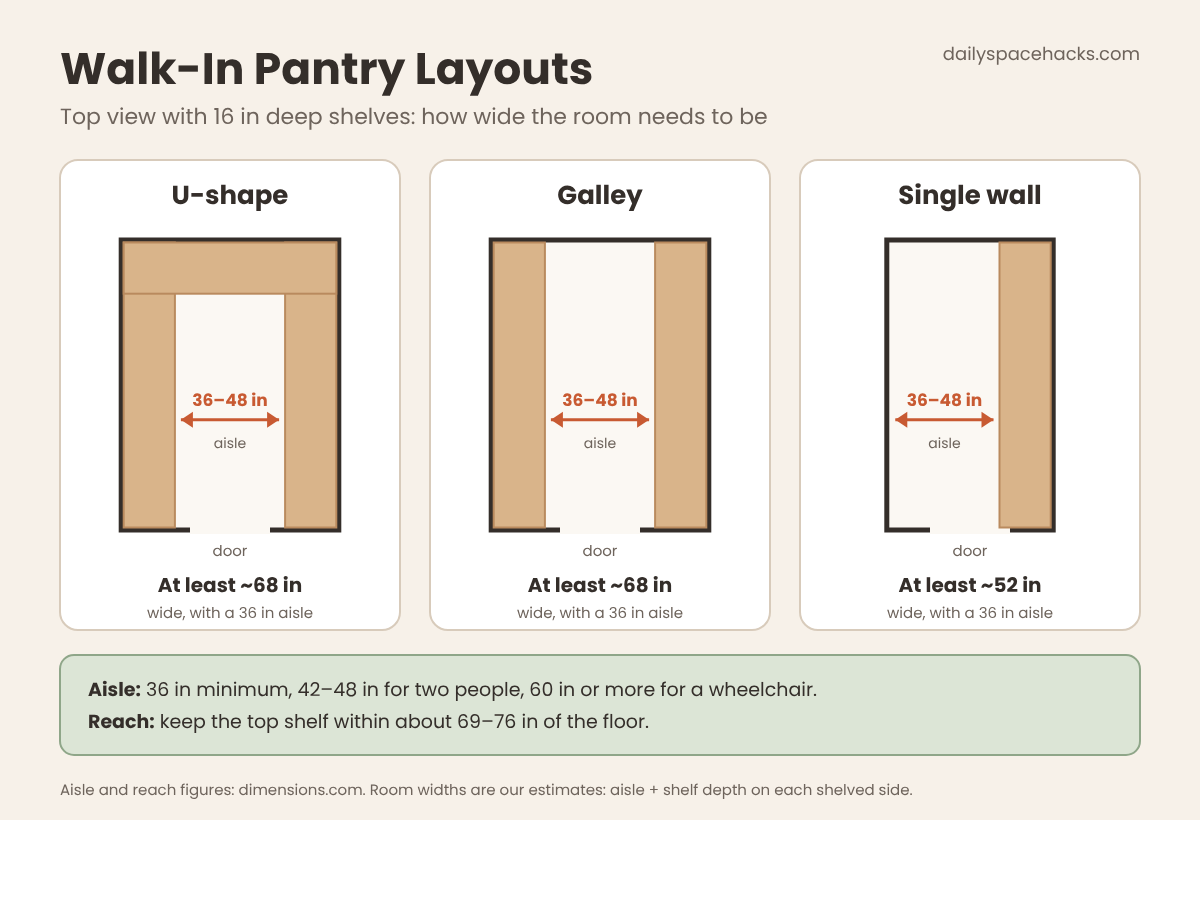
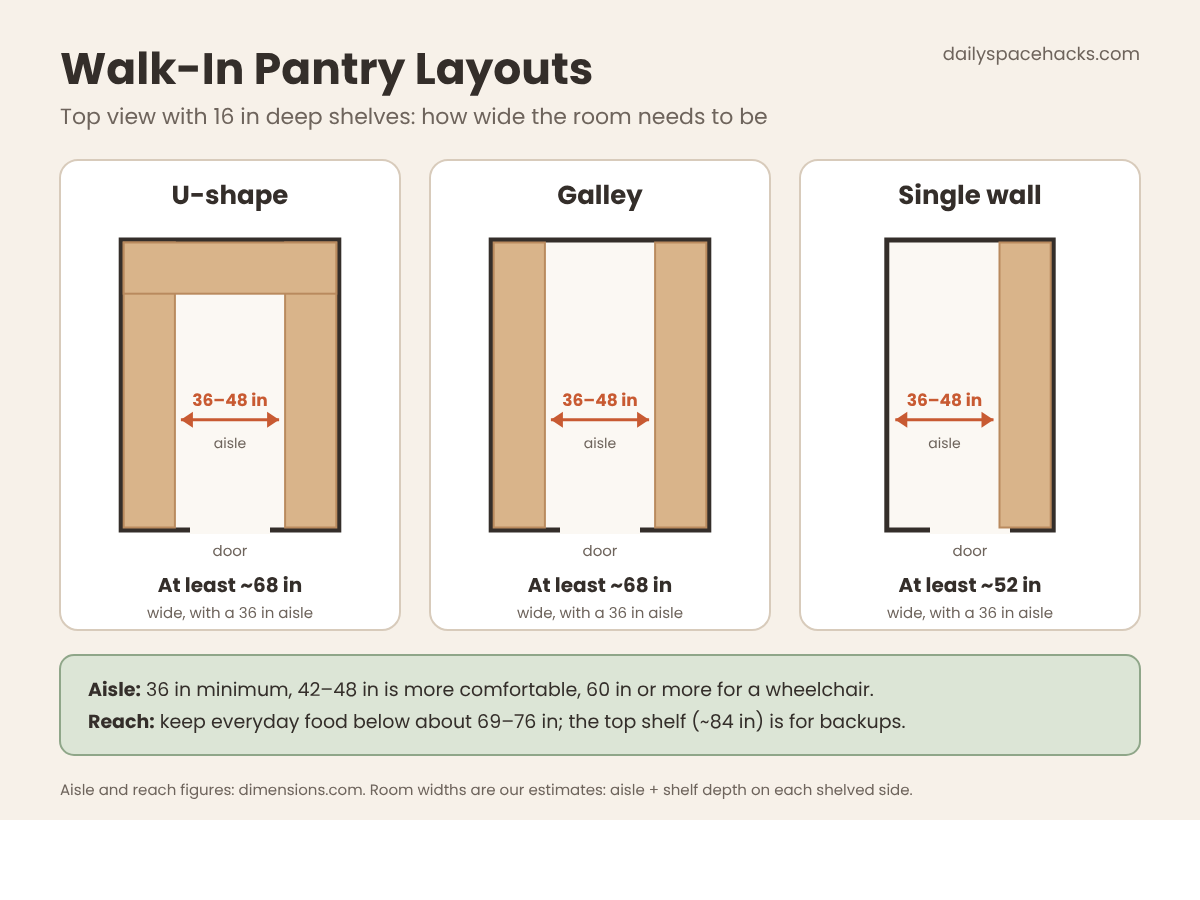
Update images ready
Claude-Session: https://claude.ai/code/session_01NA5LVV4VZ27gRjP7KysXbg

Changed region(s): [[0.185, 0.7467, 0.74, 0.8089]]

diff --git a/tools/upd/ops1286.py b/tools/upd/ops1286.py
@@ -7,10 +7,10 @@ def sizes():
     h3('Washer and Dryer Sizes at a Glance')
     table(['Machine','Width','Height','Depth'],[
      ['Front-load washer or dryer','about 27 in','about 39 in','32 to 34 in'],
-     ['Top-load washer','27 to 28 in','42 to 44 in, plus about 2 ft for the lid','27 to 28 in'],
+     ['Top-load washer','about 27 in','42 to 44 in, plus about 2 ft for the lid','27 to 28 in'],
      ['Stacked front-load pair','about 27 in','about 78 in','32 to 34 in'],
      ['Compact machines','about 24 in','33 to 36 in','24 to 26 in']])
-    p('Add the gaps on top of these sizes: about 1 in at each side and 6 in behind. A side-by-side pair of full-size machines therefore needs a space of roughly 56 in wide before any cabinets. Sizes vary by model, so check the install guide of the machines you own.')
+    p('Add the gaps on top of these sizes: about 1 in at each side and 6 in behind. A side-by-side pair of full-size machines needs a space at least 56 in wide, Whirlpool says, before any cabinets. Sizes vary by model, so check the install guide of the machines you own.')
 after(P,'6 in behind the machines for hoses and venting.</p>\n<!-- /wp:paragraph -->',sizes)
 def high():
     h3('How High to Hang Laundry Room Wall Cabinets')
@@ -18,18 +18,18 @@ def high():
     lst(['<strong>Over front-loaders with a counter:</strong> the machines are about 39 in tall, the gap about 1 in and the counter 1 to 1.5 in thick, so the counter top sits near 41 in. Add the usual 15 to 18 in kitchen gap, and the cabinets start about 56 to 60 in from the floor.',
      '<strong>Over a top-loader:</strong> the washer is 42 to 44 in tall and the lid needs about 24 in, so the bottom of the cabinet should be at least 66 to 68 in from the floor. Open the lid fully and measure, because lids differ.',
      '<strong>Over a stacked pair:</strong> about 78 in of machines leaves roughly 18 in below an 8 ft (96 in) ceiling. After a small gap, that fits a cabinet about 14 to 16 in tall.'])
-    p('These are our own working numbers, built from the '+WP+' sizes above and standard kitchen spacing, not a building code. Before you fix anything, check that the cabinet doors clear the machine doors and that you can reach the lowest shelf without a step stool.')
+    p('These are our own working numbers, built from the '+WP+' sizes above and standard kitchen spacing, not a building code. Before you fix anything, check that the cabinet doors clear the machine doors and that, except above a stacked pair, you can reach the lowest shelf without a step stool.')
 after(P,'closing it tightly after use.</p>\n<!-- /wp:paragraph -->',high)
 rep(P,'<p>Most laundry rooms use the same cabinet boxes as kitchens:','<p>Most laundry rooms use the same cabinet boxes as kitchens (our '+a('kitchen-storage-ideas','kitchen storage ideas')+' show more ways to use them):')
 def cost():
     h3('What a Full Laundry Cabinet Project Costs')
-    p(RTA+' gives a sample budget for an 8 x 10 ft laundry room: about $1,500 to $3,000 for cabinets, $800 to $2,000 for installation and plumbing, and $300 to $1,000 for extras such as a sink or pull-outs, or roughly $2,500 to $6,000 in total. The Bob Vila figures above date from 2023, so expect current prices to be somewhat higher.')
+    p(RTA+' gives a sample budget for an 8 x 10 ft laundry room: about $1,500 to $3,000 for cabinets, $800 to $2,000 for installation and plumbing, and $300 to $1,000 for extras such as a sink or pull-outs, or roughly $2,500 to $6,000 in total. The Bob Vila guide was last updated in 2023, so expect current prices to be somewhat higher.')
     h2('Best Materials and Hardware for a Damp Room')
     p('A laundry room sees steam, spills and the odd leaking hose, so the materials matter more than in most rooms:')
     lst(['<strong>Cabinet boxes:</strong> plywood holds up better to humidity than particleboard. If you buy particleboard or MDF boxes, seal every cut edge.',
      '<strong>Doors and finish:</strong> solid wood or painted MDF doors with a tough satin or semi-gloss paint that wipes clean.',
      '<strong>Counters:</strong> quartz and laminate shrug off water and detergent. Butcher block looks warm but needs sealing, especially around a sink.',
-     '<strong>Hardware:</strong> soft-close hinges, full-extension slides for hampers and drawers, and a waterproof mat in the sink base to catch drips.'])
+     '<strong>Hardware:</strong> soft-close hinges, full-extension slides for hampers and drawers.'])
 after(P,'get quotes for anything custom.</p>\n<!-- /wp:paragraph -->',cost)
 def store():
     h2('What to Store in Each Laundry Cabinet')
@@ -40,7 +40,7 @@ def store():
      ['Tall cabinet','Broom, mop, vacuum, ironing board','Clips keep handles upright'],
      ['Sink base','Bucket, brushes, a soaking tub','A waterproof mat catches drips'],
      ['Open shelf','Folded towels, baskets','Matching baskets look calm']])
-    p('Leave about 36 in of clear floor in front of the cabinets so their doors and the machine doors can open at the same time, as '+RTA+' recommends.')
+    p('Leave at least 36 in of clear floor in front of the cabinets and machines so their doors open fully, as '+RTA+' recommends. '+WP+' suggests about 4 ft in front of a front-loader for loading.')
 after(P,'class="wp-image-1285"/></figure>\n<!-- /wp:image -->',store)
 rep(P,'and a sink base with doors leaves room for a bucket and spare sponges.</p>','and a sink base with doors leaves room for a bucket and spare sponges. A drop-in sink is the easiest to fit into a laminate counter, while an undermount sink suits quartz or stone; if you skip the cabinet, a wall-mounted or freestanding utility sink does the same job.</p>')
 rep(P,'screw the hooks into the frame of the door, not just the thin center panel.</p>','screw the hooks into the frame of the door, not just the thin center panel. If no door is wide enough, a pull-out ironing board that folds into a drawer does the same job.</p>')
@@ -51,7 +51,7 @@ def bonus():
     img('l1')
     p('Paneled or bi-fold doors turn the washer and dryer into one more cabinet, which is ideal when the laundry is part of a kitchen or hallway. Size the opening from the machine sizes above plus the side and back gaps, check that the cabinet doors open fully past the machine doors, and leave room for the hoses and dryer vent. Heat and moisture need a way out, so check your dryer&#8217;s install guide for closet airflow, and consider louvered doors or a gap above them. Our '+a('european-laundry-ideas','European laundry ideas')+' show more machines tucked behind doors.')
     h3('Turn one end of the laundry wall into a mini mudroom')
-    p('If the laundry room is also the way in from the garage or garden, give one end a bench, a row of hooks and open cubbies for shoes and bags, with a tall cabinet for coats. A wipeable floor and a basket for each person keep it tidy. Our '+a('mudroom-ideas','mudroom ideas')+' cover benches, hooks and boot storage in more detail.')
+    p('If the laundry room is also the way in from the garage or backyard, give one end a bench, a row of hooks and open cubbies for shoes and bags, with a tall cabinet for coats. A wipeable floor and a basket for each person keep it tidy. Our '+a('mudroom-ideas','mudroom ideas')+' cover benches, hooks and boot storage in more detail.')
     h2('Laundry Cabinet Colors and Styles')
     img('l2')
     p('Two-tone cabinets are an easy way to make a plain laundry room look designed: navy, deep green or wood base cabinets with white or cream uppers keep the top of the room light. In a small room, light colors are the safer choice; dark cabinets work best when the walls, counter and floor stay light.')
@@ -59,7 +59,7 @@ def bonus():
 after(P,'check that the boxes are not swollen from water.</p>\n<!-- /wp:paragraph -->',bonus)
 def faq():
     h3('How much does it cost to add cabinets to a laundry room?')
-    p('Cabinets alone run from about $250 to $2,000, with countertops another $300 to $1,400, according to Bob Vila&#8217;s 2023 guide. A fuller project for an 8 x 10 ft room, with installation, plumbing and extras such as a sink, is about $2,500 to $6,000 in RTA Cabinet Store&#8217;s sample budget.')
+    p('Cabinets alone run from about $250 to $2,000, with countertops another $300 to $1,400, according to Bob Vila&#8217;s guide (updated 2023). A fuller project for an 8 x 10 ft room, with installation, plumbing and extras such as a sink, is about $2,500 to $6,000 in RTA Cabinet Store&#8217;s sample budget.')
     h3('Can you put a washer and dryer in a closet with cabinets?')
     p('Yes, if the closet fits the machines plus their gaps: about 1 in at each side and 6 in behind. A stacked front-load pair is about 27 in wide and 78 in tall, so a shallow cabinet can go above it. Check the dryer&#8217;s install guide for closet airflow and venting before you close it in.')
     h3('What is the best layout for laundry room cabinets?')

diff --git a/tools/upd/ops2039.py b/tools/upd/ops2039.py
@@ -8,19 +8,19 @@ ADF=ext('https://assets.publishing.service.gov.uk/media/61deba42d3bf7f054fcc243d
 MB=ext('https://www.mybuilder.com/extensions/price-guides/utility-room-cost','MyBuilder&#8217;s utility room cost guide')
 def space():
     h3('How Much Space Does a Small Utility Room Need?')
-    p('Less than you might think. '+IH+' notes that a utility can fit into as little as 0.36 m² if you build upwards, roughly the footprint of one stacked washer and dryer, while the average utility room is about 2.5 to 5 m². Use these sizes as a starting point:')
+    p('Less than you might think: a kitchen designer quoted by '+IH+' says a utility can fit into as little as 0.36 m² if you build upwards, about the footprint of one 60 cm machine with a second stacked on top, while the average utility room is about 2.5 to 5 m². Use these sizes as a starting point:')
     lst(['<strong>One wall of units:</strong> about 1.5 to 1.8 m of wall for the machines and a sink or worktop, plus about 1 m of clear floor in front so you can open the doors and load comfortably ('+HB+').',
      '<strong>Stacked machines:</strong> a column about 60 cm wide and at least 170 cm tall, because each machine is roughly 85 cm high before you add the stacking kit ('+BO+').',
      '<strong>A washer dryer only:</strong> one 60 cm space under a worktop, the smallest option if there is no room for two machines.'])
     h3('Long, Narrow Utility Rooms')
     img('u1')
-    p('In a corridor-shaped utility, put the machines, sink and tall cupboard on one wall and keep the opposite side for shallow storage, such as slim open shelves or wall cupboards, so the walkway stays clear. '+HB+' suggests units on both walls only when the room is about 2 m wide; in anything narrower, open doors and drawers clash in the middle.')
+    p('In a corridor-shaped utility, put the machines, sink and tall cupboard on one wall and keep the opposite side for shallow storage, such as slim open shelves or wall cupboards, so the walkway stays clear. '+HB+' suggests units on both walls only when the room is about 2 m wide. In anything narrower, open doors and drawers clash in the middle.')
 after(P,'with a vent pipe that is not kinked, blocked or crushed.</p>\n<!-- /wp:paragraph -->',space)
 rep(P,'show how to use the rest of the slope.</p>','show how to use the rest of the slope, and our '+a('under-stairs-cupboard-doors','under stairs cupboard doors')+' guide shows how to close it off neatly.</p>')
 def loo():
-    p('In a shared room, a washer dryer or a stacked pair behind a cupboard door keeps the space feeling like a cloakroom. Plan the extractor fan early: '+ADF+' sets a minimum intermittent extract rate of 30 litres per second for a utility room, so check the fan&#8217;s rating before you buy.')
+    p('In a shared room, a washer dryer or a stacked pair behind a cupboard door keeps the space feeling like a cloakroom. Plan the extractor fan early. In England, '+ADF+' sets a minimum intermittent extract rate of 30 litres per second for a utility room, so check the fan&#8217;s rating before you buy.')
 after(P,'covers the space a loo needs and the ventilation rules to check.</p>\n<!-- /wp:paragraph -->',loo)
-rep(P,'Either way, follow the manual for the space it needs around it.</p>','Either way, follow the manual for the space it needs around it. Stop using a dryer that gives off a burning smell, makes clothes unusually hot or takes much longer than usual to dry, and have it checked.</p>')
+rep(P,'Either way, follow the manual for the space it needs around it.</p>','Either way, follow the manual for the space it needs around it. If it smells of burning, leaves clothes hotter than usual or takes longer to dry, clean the filter and check the vent pipe straight away; if the problem continues, stop using it and have it checked by a qualified engineer.</p>')
 def cost():
     h2('How Much Does a Small Utility Room Cost?')
     p('It depends on whether you refresh the room you have or build a new one. These typical UK prices come from '+MB+':')
@@ -29,20 +29,21 @@ def cost():
      ['New units','£200 to £800'],
      ['New flooring','£500 to £1,000'],
      ['New lighting','from £100'],
-     ['Converting an existing room','£10,000 to £15,000'],
-     ['Small extension','£7,500 to £25,000'],
-     ['Garage conversion','£10,000 to £25,000']])
+     ['Small utility room conversion','£10,000 to £15,000'],
+     ['Utility room extension','£7,500 to £25,000'],
+     ['Garage conversion','£10,000 to £25,000'],
+     ['Appliance upgrades','£1,000 to £3,000']])
     p('Costs rise quickly when water, waste or power has to be moved, so a refresh that keeps the machines where they are is by far the cheapest option.')
 before(P,'<!-- wp:heading -->\n<h2 class="wp-block-heading">Easy Updates and Ideas on a Budget</h2>',cost)
 rep(P,'can change the room for a fraction of the cost of a refit.</p>','can change the room for a fraction of the cost of a refit. Moving seasonal kit up into the loft frees shelf space too: see our '+a('loft-storage-ideas','loft storage ideas')+'.</p>')
 def faq():
     h3('How much does it cost to build a utility room?')
-    p('A refresh can cost a few hundred pounds: paint from about £100 and new units from £200. MyBuilder puts converting an existing room at about £10,000 to £15,000 and a small extension at £7,500 to £25,000. Moving water, waste or power adds the most to the bill.')
+    p('A refresh can cost a few hundred pounds: paint from about £100 and new units from £200. MyBuilder puts a small utility room conversion at about £10,000 to £15,000 and a utility room extension at £7,500 to £25,000. Moving water, waste or power adds the most to the bill.')
     h3('What usually goes in a utility room?')
     p('A washing machine and tumble dryer, or a washer dryer, a sink, a worktop for folding and a tall cupboard for the mop, broom, vacuum and ironing board. Most also have shelves for detergents and an airer for drying, and some house a spare fridge or freezer.')
     h3('What is a bootility room?')
     p('A bootility is a utility room that doubles as a boot room, usually by the back door. It combines the washing machine and sink with a bench, coat hooks, boot storage and a hard-wearing floor, so muddy kit and laundry are dealt with in one place before they reach the rest of the house.')
     h3('What is the smallest size for a utility room?')
-    p('Ideal Home says a working utility can fit into as little as 0.36 m² if you build upwards with a stacked washer and dryer. A single run of units is easier to use: allow about 1.5 to 1.8 m of wall and about 1 m of clear floor in front.')
+    p('A kitchen designer quoted by Ideal Home has fitted working utilities into as little as 0.36 m² by building upwards, about the footprint of one 60 cm machine. A single run of units is easier to use: allow about 1.5 to 1.8 m of wall and about 1 m of clear floor in front.')
 before(P,'<!-- wp:paragraph -->\n<p>If your utility room is also the way in from the garden,',faq)
 save('ops2039.json')

diff --git a/tools/upd/ops788.py b/tools/upd/ops788.py
@@ -27,25 +27,25 @@ after(P,'and it works out the gaps for you.</p>\n<!-- /wp:paragraph -->',chart)
 SVG=open('z.svg').read()
 def layout():
     h3('Walk-In Pantry Layouts and Aisle Widths')
-    p('Before you choose shelves, check that the walkway still works. '+DIM+' lists 36, 42 and 48 inches as typical walk-in pantry aisle widths, and 60 to 66 inches where a wheelchair needs to turn. Add the depth of the shelves on each shelved side, and you get the minimum width of the room.')
+    p('Before you choose shelves, check that the walkway still works. '+DIM+' lists 36, 42 and 48 inches as typical walk-in pantry aisle widths, and 60 or 66 inches for an accessible aisle, for example for a wheelchair user. Add the depth of the shelves on each shelved side, and you get the minimum width of the room.')
     diagram(SVG,'Walk-in pantry layouts: add the aisle to the shelf depth on each side to find how wide the room needs to be.')
-    p('A U-shape gives the most storage but needs the widest room. A galley, with shelves on two facing walls, suits a long, narrow pantry. If your walk-in is under about 5 feet wide, shelves on one wall, or deep shelves on one side and shallow ones opposite, keep the aisle comfortable.')
+    p('A U-shape gives the most storage but needs the widest room. A galley, with shelves on two facing walls, suits a long, narrow pantry. If your walk-in is under about 68 inches (5 ft 8 in) wide, shelves on one wall, or deep shelves on one side and shallow ones opposite, keep the aisle comfortable.')
 after(P,'<h2 class="wp-block-heading">Walk-In Pantry Shelving Ideas</h2>\n<!-- /wp:heading -->',layout)
 def wire():
     h3('How to Make Wire Pantry Shelves Work')
     img('p1')
     p('Many builder-grade pantries come with white wire shelves. You don&#8217;t have to rip them out; a few cheap fixes make them far easier to live with:')
     lst(['<strong>Add a shelf liner.</strong> A clear or solid liner cut to size gives jars and bottles a flat surface, so nothing tips through the gaps.',
-     '<strong>Use risers and turntables.</strong> A step riser lifts the back row of cans into view, and a turntable stops oils and sauces getting lost in a corner.',
+     '<strong>Use risers and turntables.</strong> A step riser lifts the back row of cans into view, and a turntable keeps oils and sauces from getting lost in a corner.',
      '<strong>Group food in matching bins.</strong> Same-size bins sit flat across the wires and slide out like drawers.',
      '<strong>Put heavy jars on solid shelves.</strong> If you mix shelf types, keep wire for light boxes and bags, and use wood or laminate for glass jars and tins.'])
 after(P,'and wood shelves where they show.</p>\n<!-- /wp:paragraph -->',wire)
 def cleat():
     h3('Step by Step: Build Cleat Pantry Shelves')
     lst(['<strong>Mark the shelf lines.</strong> Use the measurements chart above to set each height, then draw a level line on the back and side walls and mark every stud.',
-     '<strong>Fix the cleats.</strong> Cut 1x2 or 1x3 strips to length and screw them along each line, into at least two studs per strip.',
+     '<strong>Fix the cleats.</strong> Cut 1x2 or 1x3 strips to length and screw them along each line, into studs wherever possible (at least two on long back cleats), with heavy-duty wall anchors where a short side cleat misses a stud.',
      '<strong>Cut the shelves.</strong> Use 3/4 in plywood or pine boards cut to the depth you chose. Where two shelves meet in a corner, overlap them or add a short cleat underneath to carry both.',
-     '<strong>Stiffen long shelves.</strong> Glue and nail a 1x2 strip to the front edge. It hides the plywood layers and helps stop the shelf sagging under jars and cans.',
+     '<strong>Stiffen long shelves.</strong> Glue and nail a 1x2 strip to the front edge. It hides the plywood layers and helps keep the shelf from sagging under jars and cans.',
      '<strong>Finish before loading.</strong> Fill the screw holes, caulk the joints, then prime and paint with a durable semi-gloss or enamel so spills wipe off. Let the paint cure before you load the shelves.'],ordered=True)
 after(P,'explains how to find studs and choose the right fasteners.</p>\n<!-- /wp:paragraph -->',cleat)
 def light():
@@ -62,11 +62,12 @@ def faq():
     h3('How wide should a walk-in pantry be?')
     p('Allow at least 36 inches of clear aisle, or 42 to 48 inches for a roomier walk-in, then add the shelf depth on each shelved side. With 16 inch shelves on two facing walls, the room needs to be about 68 inches wide; with shelves on one wall only, about 52 inches.')
     h3('How high should the top pantry shelf be?')
-    p('Dimensions.com puts a typical top pantry shelf around 84 inches from the floor, but most people can only reach about 69 to 76 inches without a step. Use the top shelf for backups and rarely used items, keep a step stool nearby and store heavy things low.')
+    p('Dimensions.com puts a typical top pantry shelf around 84 inches from the floor, but the comfortable maximum reach is about 69 to 76 inches. Use the top shelf for backups and rarely used items, keep a step stool nearby and store heavy things low.')
 before(P,'<!-- wp:paragraph -->\n<p>Planning open shelves on a wall instead?',faq)
 rep(P,'\n\n<!-- wp:paragraph -->\n<p>Want shelving with a sink, a coffee station and glass-front cabinets too? See our <a href="https://dailyspacehacks.com/butlers-pantry-ideas/">butler\'s pantry ideas</a> for layouts and sizes that fit any home.</p>\n<!-- /wp:paragraph -->','')
 rep(P,'<p>A slim door rack holds spices, small jars and packets,','<p>A slim door rack holds '+a('spice-cabinet-organization','spices')+', small jars and packets,')
 rep(P,'Plywood is strong and budget-friendly. Add','Plywood is strong and budget-friendly, and it is the same material we use in our '+a('diy-closet-shelves','DIY closet shelves')+'. Add')
 rep(P,'a pull-out cabinet or shelves in another spot can work.','a pull-out cabinet or '+a('storage-ideas-for-small-spaces','shelves in another spot')+' can work.')
 rep(P,'Get the shelves right first, and organizing the pantry becomes much easier.</p>','Get the shelves right first, and organizing the pantry becomes much easier. For the rest of the room, see our '+a('kitchen-storage-ideas','kitchen storage ideas')+'.</p>')
+rep(P,'and small appliances need the most.','and large and bulk items need the most.')
 save('ops788.json')

diff --git a/tools/upd/svg788.py b/tools/upd/svg788.py
@@ -2,7 +2,7 @@ T='#342E2A';A='#C85A32';G='#6E645C';SG='#8FA689';SGL='#DCE5D6';BG='#F7F1E9';W='#
 s=[];a=s.append
 desc=("Three top-down walk-in pantry plans with 16 inch deep shelves. U-shape: shelves on three walls around a 36 to 48 inch aisle, so the room needs to be at least about 68 inches (5 ft 8 in) wide. "
 "Galley: shelves on two facing walls with the same aisle, also about 68 inches wide. Single wall: shelves on one wall only, about 52 inches wide. "
-"Notes: 36 inches is the minimum aisle, 42 to 48 inches is more comfortable, 60 inches or more for a wheelchair, and the top shelf should stay within about 69 to 76 inches of reach.")
+"Notes: 36 inches is the minimum aisle, 42 to 48 inches is more comfortable, 60 inches or more for a wheelchair, and keep everyday food within about 69 to 76 inches of reach.")
 a(f'<svg xmlns="http://www.w3.org/2000/svg" viewBox="0 0 1200 820" font-family="Poppins, sans-serif" role="img" aria-labelledby="wl-t wl-d"><title id="wl-t">Walk-in pantry layouts and aisle widths</title><desc id="wl-d">{desc}</desc>')
 a(f'<rect width="1200" height="820" fill="{BG}"/>')
 a(f'<text x="60" y="84" font-size="44" font-weight="700" fill="{T}">Walk-In Pantry Layouts</text>')
@@ -33,7 +33,7 @@ panel(430,'Galley','LR',68,'At least ~68 in')
 panel(800,'Single wall','R',52,'At least ~52 in')
 a(f'<rect x="60" y="655" width="1080" height="100" rx="14" fill="{SGL}" stroke="{SG}" stroke-width="2"/>')
 a(f'<text x="88" y="696" font-size="19" fill="{T}"><tspan font-weight="700">Aisle:</tspan> 36 in minimum, 42–48 in is more comfortable, 60 in or more for a wheelchair.</text>')
-a(f'<text x="88" y="728" font-size="19" fill="{T}"><tspan font-weight="700">Reach:</tspan> keep the top shelf within about 69–76 in of the floor.</text>')
+a(f'<text x="88" y="728" font-size="19" fill="{T}"><tspan font-weight="700">Reach:</tspan> keep everyday food below about 69–76 in; the top shelf (~84 in) is for backups.</text>')
 a(f'<text x="60" y="795" font-size="15" fill="{G}">Aisle and reach figures: dimensions.com. Room widths are our estimates: aisle + shelf depth on each shelved side.</text>')
 a('</svg>')
 open('z.svg','w').write(''.join(s))
